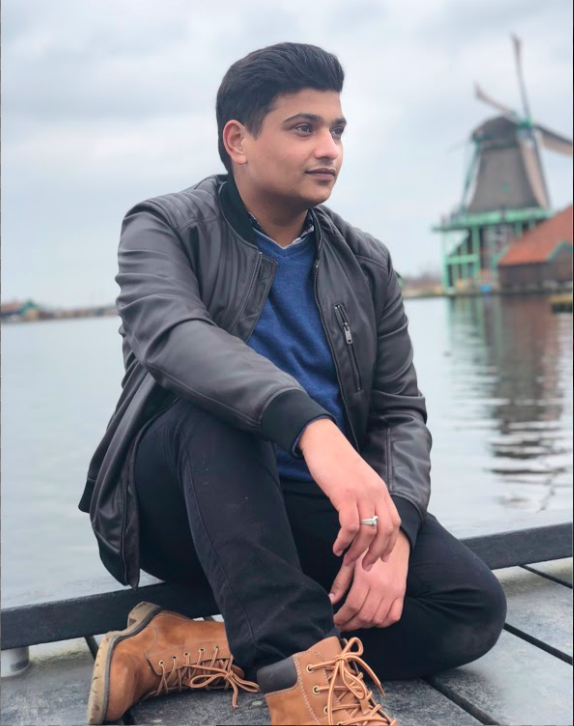
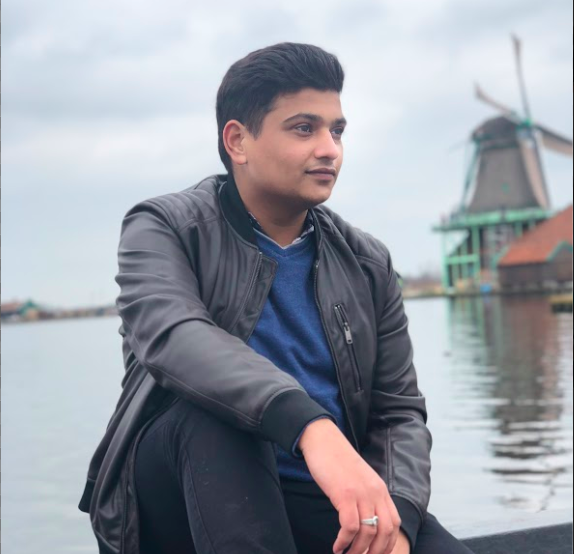
fixed main image

diff --git a/navbar.html b/navbar.html
@@ -1,0 +1,22 @@
+
+<!DOCTYPE HTML>
+<html>
+<head>
+    <title>Aman Sharma</title>
+    <meta charset="utf-8" />
+    <meta name="viewport" content="width=device-width, initial-scale=1, user-scalable=no" />
+    <link rel="stylesheet" href="assets/css/main.css" />
+</head>
+<body class="is-preload">
+
+<!-- Nav -->
+<nav id="nav">
+    <ul class="container">
+        <li><a href="index.html">Home</a></li>
+        <li><a href="Assignment.html">Assignment</a></li>
+        <li><a href="Projects.html">Portfolio</a></li>
+        <li><a href="#contact">Contact</a></li>
+    </ul>
+</nav>
+</body>
+</html>

diff --git a/Projects.html b/Projects.html
@@ -34,7 +34,7 @@
 <article id="portfolio" class="wrapper style3">
     <div class="container">
         <header>
-            <h2>Here’s everything I did during my Internship.</h2>
+            <h2>Here’s everything I did during my Internship project.</h2>
             <p>For ease I have divided the projects into 6 different parts and it is as follows:</p>
         </header>
         <div class="row">

diff --git a/Assignment.html b/Assignment.html
@@ -17,6 +17,7 @@
         <li><a href="#contact">Contact</a></li>
     </ul>
 </nav>
+
 <!-- Description assignment and company -->
 <article id="top" class="wrapper style1">
 		<div class="container">
